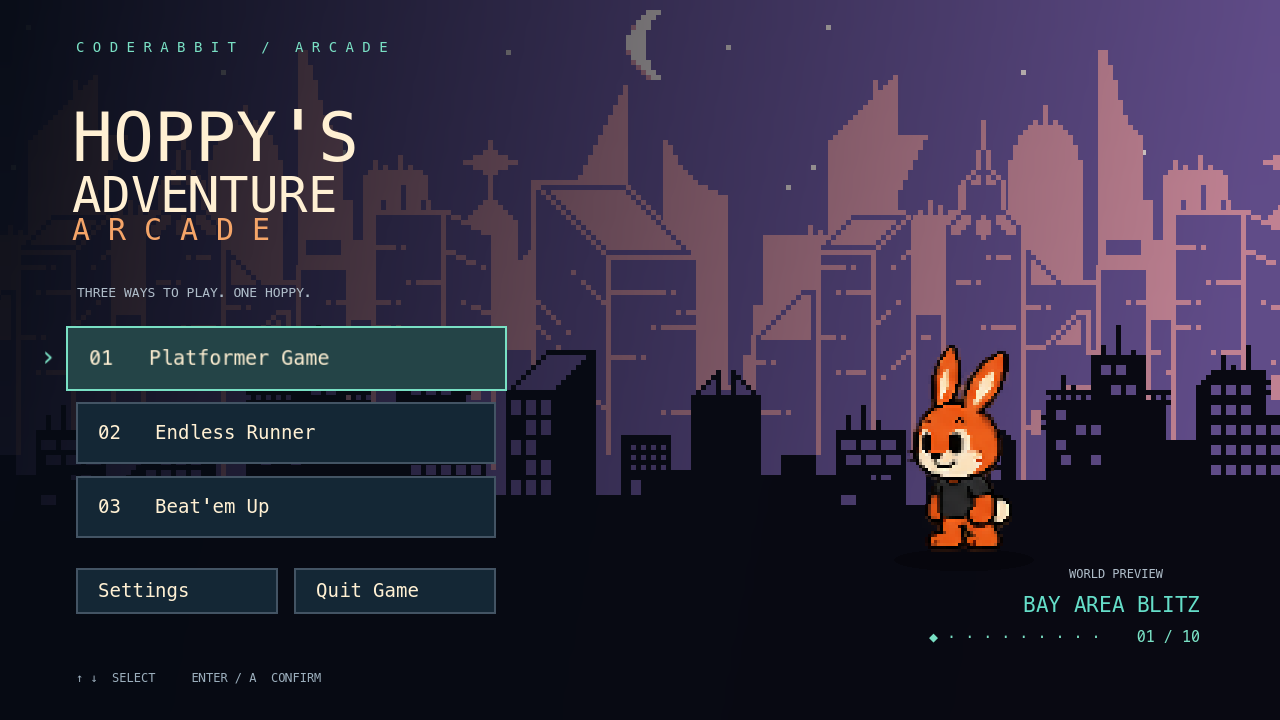
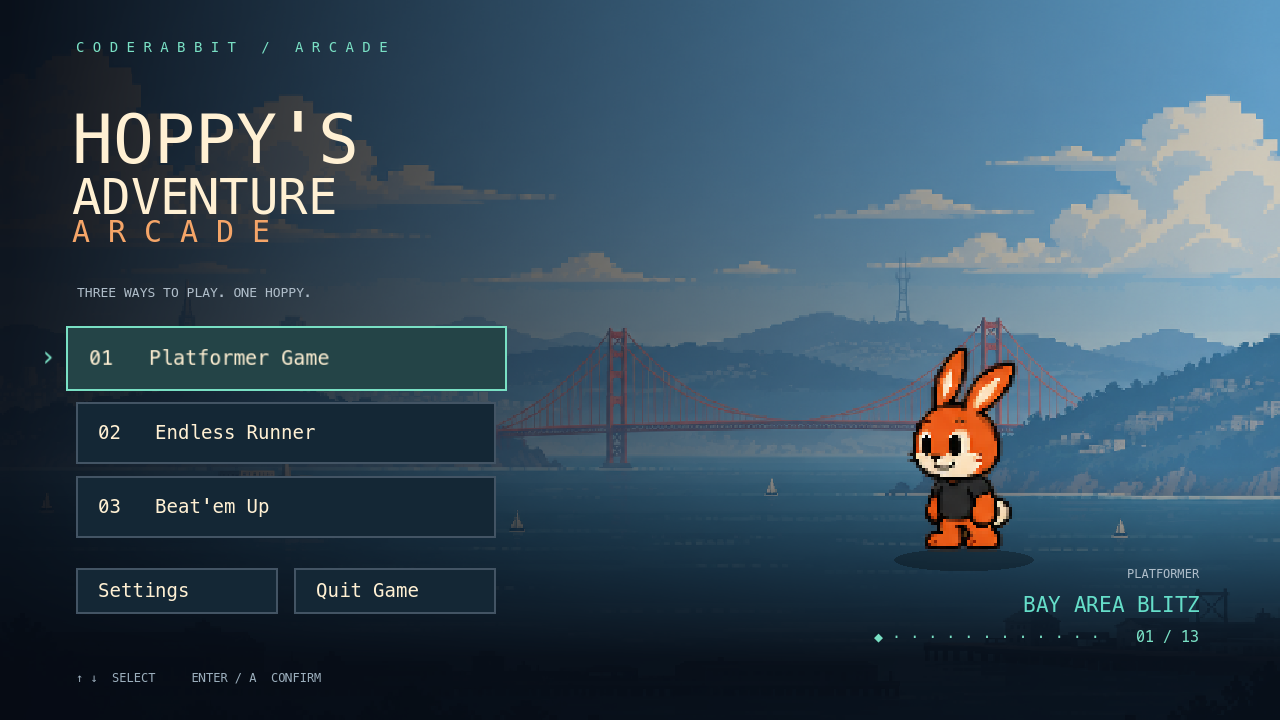
Main Menu: Updated Rotating Backgrounds
Beat’em Up now cycles through all six backgrounds from Code City Brawl and Heroes vs. Villains.
Replaced the three generic platformer previews with current stage artwork.
Added campaign captions and improved contrast on bright backgrounds.
Kept the existing runner gameplay previews.

diff --git a/docs/main-menu.md b/docs/main-menu.md
@@ -14,12 +14,12 @@ Arrow keys, Tab, D-pad, or left stick navigate; Enter / gamepad A activates; Esc
 
 ## Behavior and ownership
 
-- Scene-local showcase: idle previews 0–9 every 9 seconds; 1.2-second fades. Focusing a mode cycles its previews every 3 seconds with 0.6-second fades: Platformer and brawler cycle three themes, and the Endless Runner cycles four in-game stills (corridor, power-ups, sharp turn, boss).
+- Scene-local showcase: idle previews 0–12 every 9 seconds; 1.2-second fades. Focusing a mode cycles its previews every 3 seconds with 0.6-second fades: Platformer cycles three themes; Beat’em Up cycles all three Code City Brawl stages followed by all three Heroes vs. Villains stages, and the Endless Runner cycles four in-game stills (corridor, power-ups, sharp turn, boss).
 - Focus exit waits 2 seconds, then restores the idle index and remaining dwell. Modals pause showcase timing. Parallax continues behind overlays.
 - At most two preview nodes exist. During a fade, requests coalesce to the latest selection; the outgoing node is freed before another fade begins. Each preview is a `CanvasGroup`, so a fade blends the flattened scene instead of letting its parallax layers show through each other. Preview textures are loaded once and kept, so transitions never read from disk.
 - Layout recenters on viewport resize (not every frame). Menu buttons grow 5% around their centre on hover/focus and keep that scale when their container re-sorts.
 - The UI uses a 1280×720 reference with expanding viewport coverage and centered composition. Backgrounds fill taller and wider windows. Pixel scenery uses nearest filtering.
-- AppRouter validates known routes and prevents duplicate transitions. Each mode currently opens an explicit “not playable yet” endpoint with a return button. No gameplay was added.
+- AppRouter validates known routes and prevents duplicate transitions. Mode buttons open their existing game menus. This graphics pass does not modify gameplay.
 - AudioService owns a single looping music player and one UI sound player. Music and SFX independently feed Master. Supplied `Assets/Audio/happy_adveture.mp3` is used unchanged; synthesized UI blips are generated in code. MP3 repeat is enabled; musical seamlessness at the track boundary still needs listening review.
 - SaveService stores validated volume and fullscreen values in `user://settings.cfg`. Sliders apply immediately; closing settings persists them. Save failures appear in the UI.
 - Quit asks for confirmation and fades to black for 1 second.
@@ -30,15 +30,16 @@ As of 2026-09-30, `hoppy.gd` uses the supplied `Assets/Character/Hoppy/2D/hoppy-
 
 | Preview | Source |
 | --- | --- |
-| Bay Area Blitz | `Assets/CityBackground` layered pixel skyline |
-| Orbital Ops | `Assets/space_background_pack/layers` |
-| Enchanted Repo | `Assets/parallax_forest_pack/layers` |
+| Bay Area Blitz | `Assets/bay-area-blitz-assets-only/bay_area/backdrop.png` |
+| Orbital Ops | `Assets/orbital-ops-assets-only/orbital_ops/` starfield and station hull |
+| Enchanted Repo | `Assets/enchanted-repo-assets-only/enchanted_repo/` sky and treeline |
 | Codebase Corridor, Power-ups, Sharp Turns, Boss Fights | `Assets/runner/menu_previews/runner_*.png`, captured from an autopilot run by `tests/capture_runner_menu_previews.gd` (graphical: `Godot --always-on-top --path hoppys-adventure-arcade --script res://tests/capture_runner_menu_previews.gd`) |
-| CLI / IDE District | `Assets/Backgrounds/cyberpunk-street-files/Assets/Version 2/Layers` |
-| Security Sector | Code-drawn racks, scanner, and tunnel |
-| Git Repository HQ | Code-drawn branching nodes and hall |
+| CLI / IDE District | `Assets/code-city-brawl-assets-only/code_city/district_background.png` |
+| Security Sector | `Assets/code-city-brawl-assets-only/code_city/security_background.png` |
+| Git Repository HQ | `Assets/code-city-brawl-assets-only/code_city/hq_background.png` |
+| Generation Floor, Review Gauntlet, Agentic Core | `Assets/heroes-vs-villains-assets-only/heroes_villains/` stage panoramas |
 
-These are theme previews, not final level art. Supplied asset files and accompanying licenses remain in place. Optional CRT, shader dissolve, adaptive music, and final branding are deferred.
+Updated 2026-10-08: all menu previews now use current stage artwork or captured runner gameplay. Finite panoramas use cover scaling, overscan, and bounded camera drift, with independent depth motion for layered platformer art; none are tiled across a seam. Stage captions identify the campaign, and a lower gradient preserves readability on bright floors. Existing crossfade durations, input behavior, and Hoppy reactions remain intact. Supplied asset files and accompanying licenses remain in place. Optional CRT, shader dissolve, adaptive music, and final branding are deferred.
 
 ## Verification
 
@@ -46,7 +47,7 @@ These are theme previews, not final level art. Supplied asset files and accompan
 /Applications/Godot.app/Contents/MacOS/Godot --path hoppys-adventure-arcade --script res://tests/menu_smoke.gd
 ```
 
-The behavioral smoke test covers preview timing and preservation, rapid input coalescing, bounded preview count, all ten previews, modal focus restoration, invalid routes, duplicate navigation, all three mode round trips, and audio player counts. It also dispatches keyboard, simulated gamepad, and mouse events. A rendered run writes menu/settings screenshots to `/tmp` for layout inspection. It uses the normal settings path, so run against a disposable user profile if preserving settings during tests matters.
+The behavioral smoke test covers preview timing and preservation, rapid input coalescing, bounded preview count, all thirteen previews, modal focus restoration, invalid routes, duplicate navigation, all three mode round trips, and audio player counts. It also dispatches keyboard, simulated gamepad, and mouse events. A rendered run writes menu/settings screenshots to `/tmp` for layout inspection. It uses the normal settings path, so run against a disposable user profile if preserving settings during tests matters.
 
 Physical controller feel, audio loop quality, and Windows/Linux exports require later hands-on checks; no export presets or platform builds were added.
 
